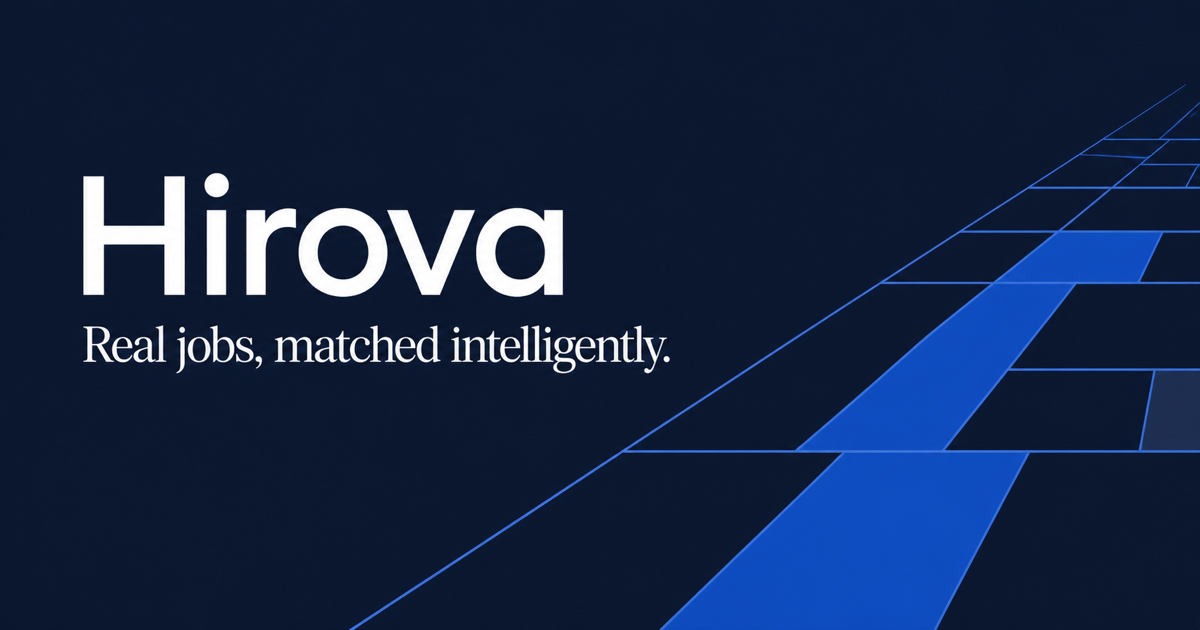
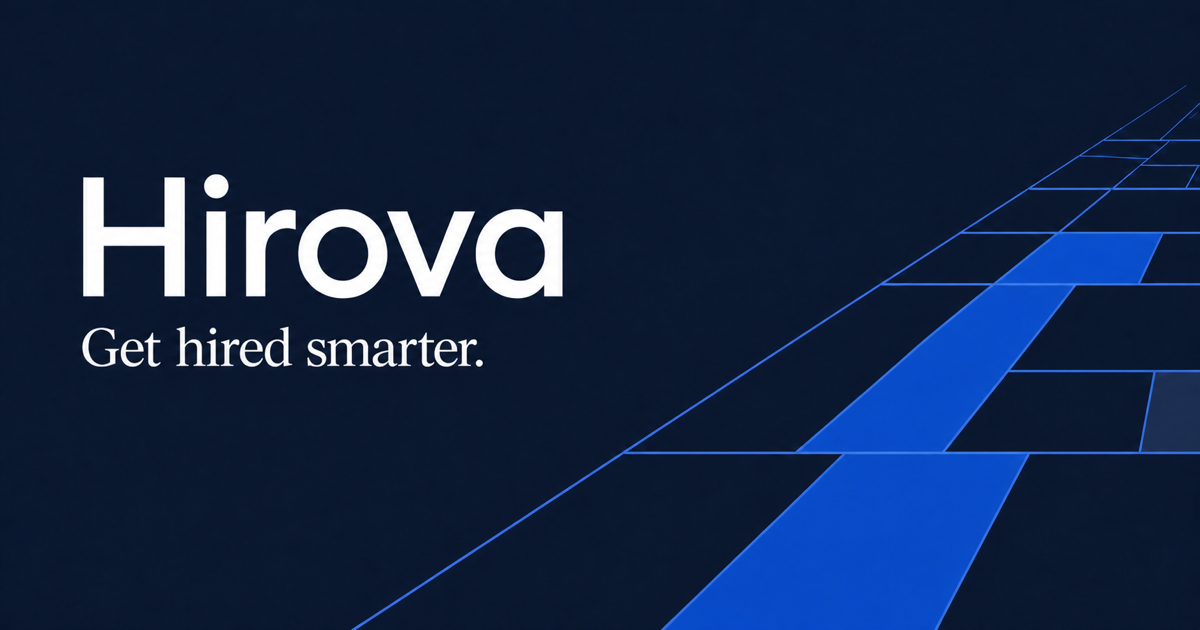
feat: launch Get hired smarter brand

diff --git a/app/public-portal.tsx b/app/public-portal.tsx
@@ -56,7 +56,7 @@ export default function PublicPortal({ onSignIn }: { onSignIn: () => void }) {
     </header>
 
     <section className="public-hero">
-      <div><span className="public-kicker"><i /> LIVE, SOURCE-VERIFIED OPENINGS</span><h1>Find work that fits.<br/><em>Know why it fits.</em></h1><p>Search current roles from public job feeds and employer career pages. Hirova ranks them around your profile after you sign in.</p></div>
+      <div><span className="public-kicker"><i /> LIVE, SOURCE-VERIFIED OPENINGS</span><h1>Get hired<br/><em>smarter.</em></h1></div>
       <aside><b>{meta?.marketTotal ? meta.marketTotal.toLocaleString("en-IN") : "2,000+"}</b><span>live openings indexed</span><small>Updated from original sources—not generated listings</small></aside>
     </section>
 
@@ -76,6 +76,6 @@ export default function PublicPortal({ onSignIn }: { onSignIn: () => void }) {
     </section>
 
     <section className="public-how" id="how-it-works"><span className="public-kicker">HOW HIROVA WORKS</span><h2>A serious job search, with useful AI in the background.</h2><div><article><b>01</b><h3>Build your profile</h3><p>Add your resume, skills, preferences, experience and target roles.</p></article><article><b>02</b><h3>Rank real openings</h3><p>Hirova compares your evidence with current, source-linked job listings.</p></article><article><b>03</b><h3>Apply and stay organised</h3><p>Apply at the original source, then track progress, notes and preparation here.</p></article></div></section>
-    <footer className="public-footer"><b><span>H</span> Hirova</b><p>Real opportunities. Clear decisions.</p><small>{meta?.sourceNotice || "Job availability is controlled by original publishers."}</small></footer>
+    <footer className="public-footer"><b><span>H</span> Hirova</b><p>Get hired smarter.</p><small>{meta?.sourceNotice || "Job availability is controlled by original publishers."}</small></footer>
   </main>;
 }

diff --git a/app/layout.tsx b/app/layout.tsx
@@ -9,14 +9,14 @@ export async function generateMetadata(): Promise<Metadata> {
   const protocol = requestHeaders.get("x-forwarded-proto") || (host.startsWith("localhost") ? "http" : "https");
   const base = new URL(`${protocol}://${host}`);
   const image = new URL("/hirova-social.png", base).toString();
-  const description = "Discover current, source-verified jobs and use practical AI to match, apply, prepare, and stay organised.";
+  const description = "Get hired smarter with source-verified jobs, personalised matching, resume intelligence, and practical interview preparation.";
   return {
     metadataBase: base,
-    title: "Hirova — Real jobs, matched intelligently",
+    title: "Hirova — Get hired smarter.",
     description,
     icons: { icon: "/favicon.svg" },
-    openGraph: { title: "Hirova — Real jobs, matched intelligently", description, images: [{ url: image, width: 1200, height: 630 }] },
-    twitter: { card: "summary_large_image", title: "Hirova — Real jobs, matched intelligently", description, images: [image] },
+    openGraph: { title: "Hirova — Get hired smarter.", description, images: [{ url: image, width: 1200, height: 630 }] },
+    twitter: { card: "summary_large_image", title: "Hirova — Get hired smarter.", description, images: [image] },
   };
 }
 
